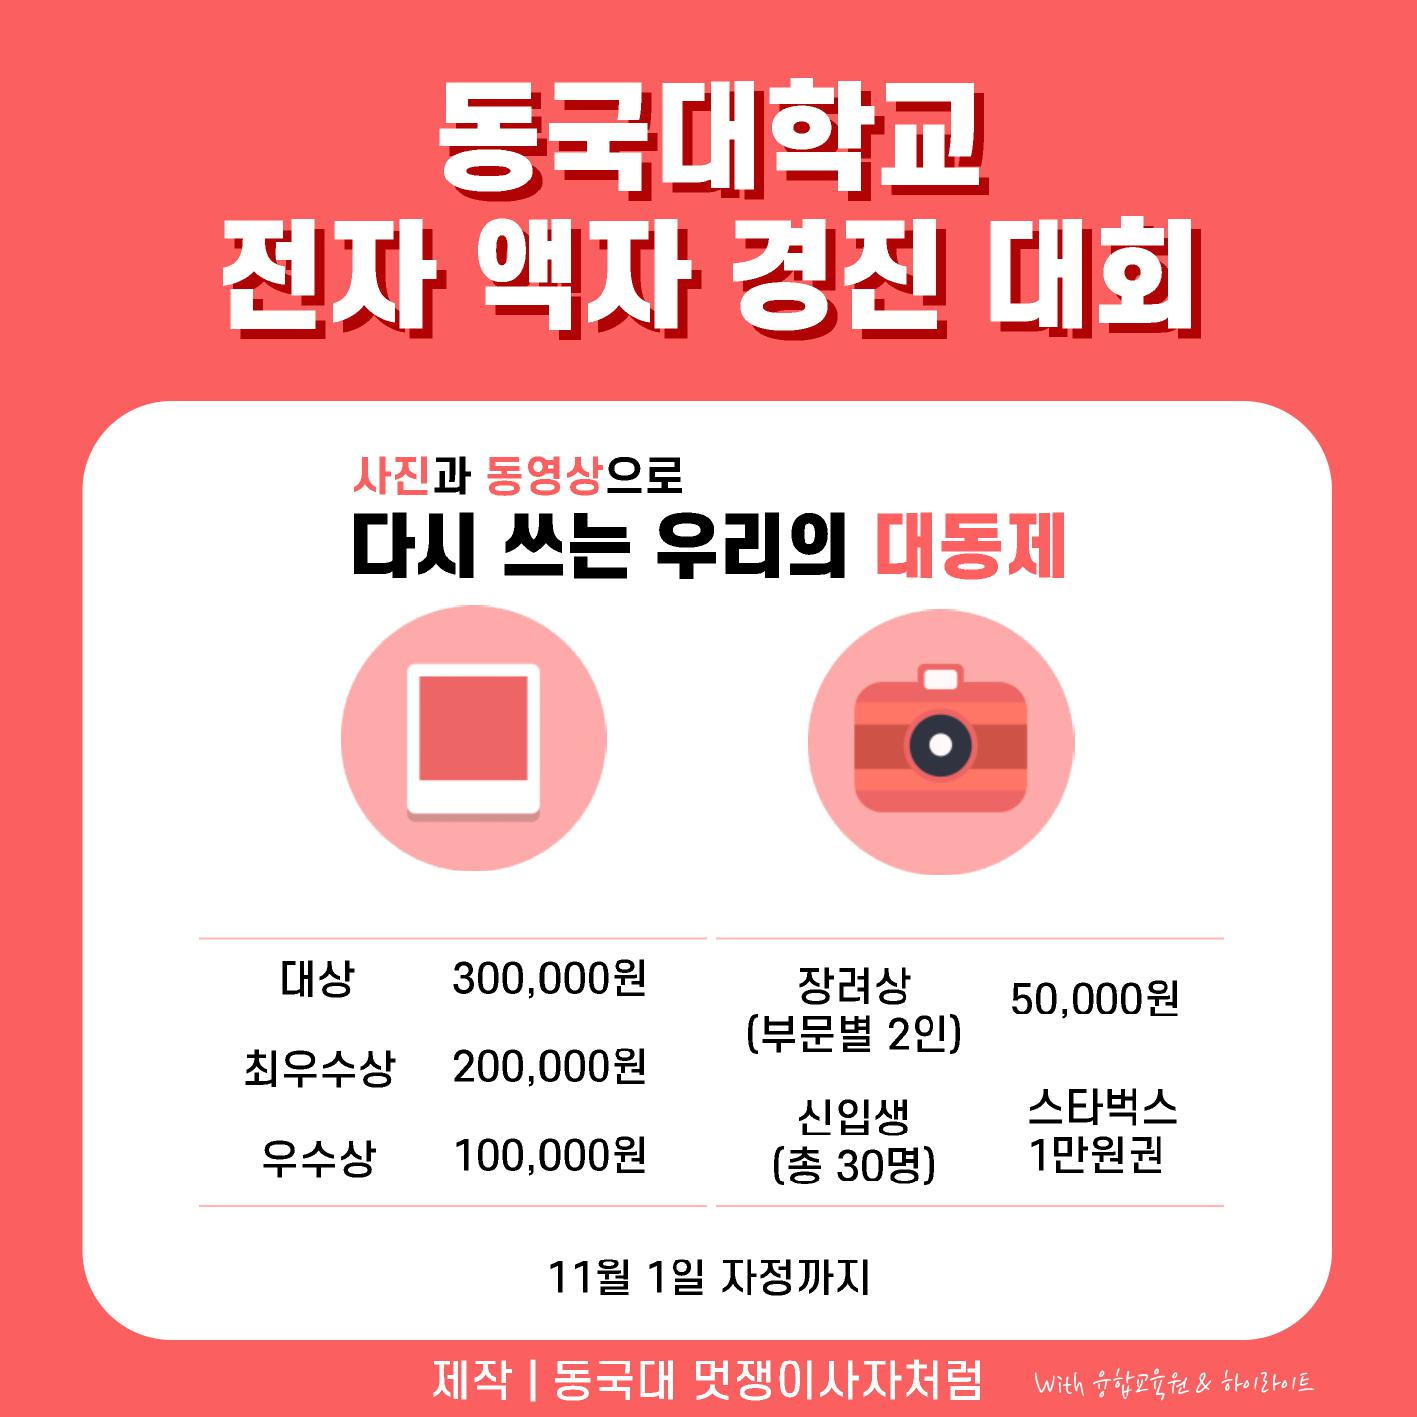
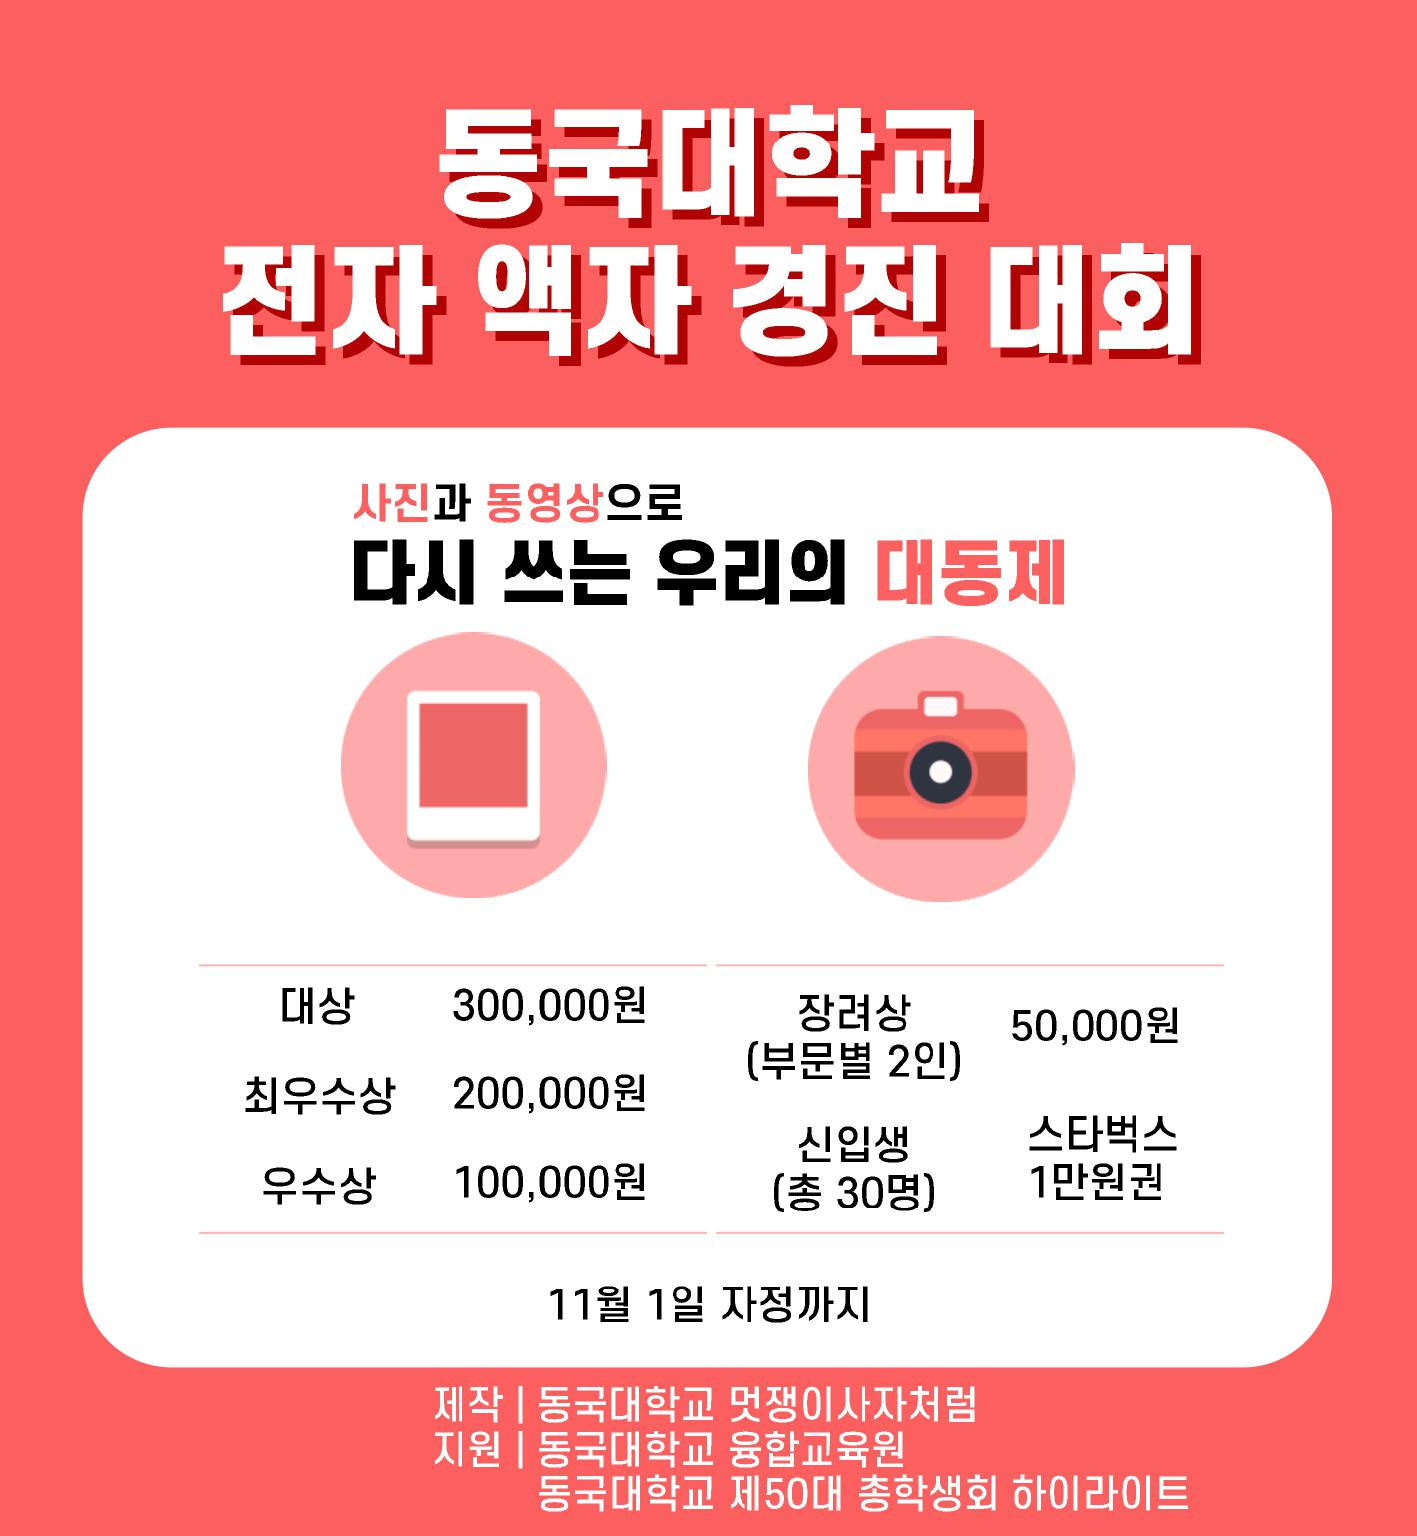
팝업이미지 수정, 메인 슬라이드 텍스트 수정

diff --git a/dgufest/templates/index.html b/dgufest/templates/index.html
@@ -16,7 +16,7 @@
                         <div class="col-12 col-lg-8 col-xl-6">
                             <div class="welcome-text">
                                 <h2 data-animation="bounceInDown" data-delay="100ms">멋쟁이사자처럼과<br> HI-SW 봉사단이 함께하는<br>웹 기반 전자 액자 경진대회</h2>
-                                <p data-animation="bounceInDown" data-delay="500ms">후원: 동국대학교 융합교육원, 동국대학교 제50대 총학생회 하이라이트</p>
+                                <p data-animation="bounceInDown" data-delay="500ms">지원: 동국대학교 융합교육원, 동국대학교 제50대 총학생회 하이라이트</p>
                                 <div class="hero-btn-group" data-animation="bounceInDown" data-delay="900ms">
                                 </div>
                             </div>

diff --git a/dgufest/templates/base.html b/dgufest/templates/base.html
@@ -41,7 +41,7 @@
             }
         }
         if( !getCookie("close20090524") ){
-            window.open("{% url 'popup' %}","타이틀","left=40,top=40,width=505,height=540,resizable=no, scrollbar=no, status=no,menubar=no,toolbar=no,location=no");
+            window.open("{% url 'popup' %}","타이틀","left=80,top=80,width=510,height=590,resizable=no, scrollbar=no, status=no,menubar=no,toolbar=no,location=no");
         }
     </script>
 

diff --git a/dgufest/templates/popup.html b/dgufest/templates/popup.html
@@ -12,7 +12,7 @@
 </script>
 
 <body>    
-    <img src="{% static 'img/popup-img/popup.jpg' %}" width="500", height="500", alt="">
+    <img src="{% static 'img/popup-img/popup.jpg' %}" width="500", height="550", alt="">
 
     <input type="checkbox" name="Notice" onClick="closeWin()">오늘 하루 동안 열지 않음
 </body>
